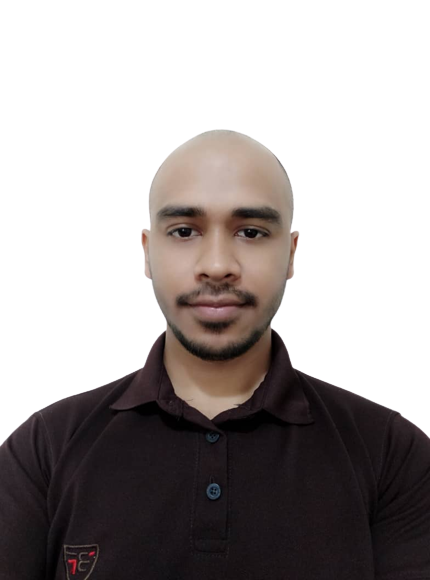
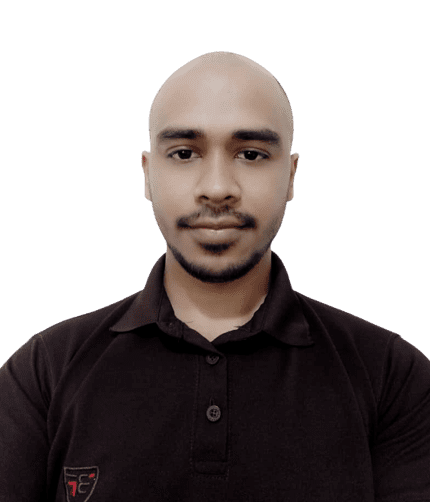
added circles with css

diff --git a/styles.css b/styles.css
@@ -15,16 +15,49 @@ body {
     color: var(--clr-secondary);
 }
 
+main {
+    width: 80%;
+    height: 100vh;
+    margin: 40px auto 0;
+}
+
+/*Global*/
+
 h1 {
-    font-size: 2em;
+    font-size: 1.6em;
+}
+
+h3 {
+    margin: 30px 0;
+}
+
+.circle {
+    border-radius: 50%;
+    box-shadow: 0 0 15px var(--clr-secondary);
+    background-image: linear-gradient(270deg, var(--clr-secondary), var(--clr-primary));
+    position: absolute;
+}
+
+.circle-small {
+    width: 80px;
+    height: 80px;
+}
+
+.circle-medium {
+    width: 120px;
+    height: 120px;
+}
+
+.circle-big {
+    width: 200px;
+    height: 200px;
 }
 
 .flex-row {
-    width: 80%;
     display: flex;
     justify-content: space-between;
     align-items: center;
-    margin: 0 auto;
+    position: relative;
 }
 
 .container {
@@ -32,6 +65,50 @@ h1 {
     flex-direction: column;
     justify-content: center;
     align-items: flex-start;
+    position: relative;
+}
+
+a {
+    padding: 10px 25px;
+    margin: 30px 0 0;
+    background-color: var(--clr-primary);
+    border: 2px solid var(--clr-secondary);
+    border-radius: 10px;
+    font-weight: 600;
+    text-decoration: none;
+    color: var(--clr-secondary);
+    box-shadow: 0 0 5px var(--clr-secondary);
+}
+
+a:hover {
+    background-color: var(--clr-secondary);
+    border: 2px solid var(--clr-secondary);
+    color: var(--clr-primary);
+    box-shadow: none;
+}
+
+img {
+    background-position: center;
+    background-size: cover;
+    width: 70%;
+    height: auto;
+    box-shadow: 0 0 30px 5px var(--clr-secondary);
+    border-radius: 40px;
+}
+
+hr {
+    border: none;
+    border-bottom: 2px solid var(--clr-secondary);
+    border-color: var(--clr-secondary);
+    box-shadow: 0 0 5px var(--clr-secondary);
+    margin: 60px 0;
+}
+
+/*Structure*/
+
+#first-section .circle-medium {
+    bottom: 0;
+    left: 30%;
 }
 
 #first-section .container {
@@ -42,36 +119,20 @@ h1 {
 h1 span {
     display: block;
     color: #ff0101;
-    margin: 20px 0;
+    margin: 20px 0 0;
 }
 
-h3 {
-    margin: 30px 0;
+#first-section .circle-big {
+    right: 40%;
+    top: 0;
 }
 
 #first-section img {
     background-image: url(images/Group\ 8449.png);
-    background-position: center;
-    background-size: cover;
-    margin-top: -80px;
-    width: 40%;
-    box-shadow: 0 0 30px 5px var(--clr-secondary);
-    border-radius: 40px;
+    align-self: flex-end;
 }
 
-a {
-    padding: 10px 25px;
-    margin: 30px 0;
-    background-color: var(--clr-primary);
-    border: 2px solid var(--clr-secondary);
-    border-radius: 10px;
-    font-weight: 600;
-    text-decoration: none;
-    color: var(--clr-secondary);
-}
-
-a:hover {
-    background-color: var(--clr-secondary);
-    border: 2px solid var(--clr-secondary);
-    color: var(--clr-primary);
+#first-section .circle-small {
+    right: 52%;
+    top: 0;
 }

diff --git a/index.html b/index.html
@@ -13,6 +13,7 @@
     <main>
         <section id="first-section">
             <div class="flex-row">
+                <div class="circle circle-medium"></div>
                 <div class="container">
                     <h1>Hello My Name is<span>Golam Hasnain Sowad</span></h1>
                     <h3>Building Climber and Train Stopper</h3>
@@ -21,11 +22,17 @@
                         work. That's why I am learning and mastering web development. I will not stop until I become the
                         Web
                         Development Hero.</p>
-                    <a href="">Hire me</a>
+                    <a href="https://www.linkedin.com/in/golam-hasnain-soyad-5167b7227/" target="_blank">Hire me</a>
                 </div>
-                <img src="images/image-1.png" alt="">
+                <div class="circle circle-big"></div>
+                <div class="container">
+                    <div class="rectangle"></div>
+                    <img src="images/image-1.png" alt="">
+                </div>
+                <div class="circle circle-small"></div>
             </div>
         </section>
+        <hr>
 </body>
 
 </html>
